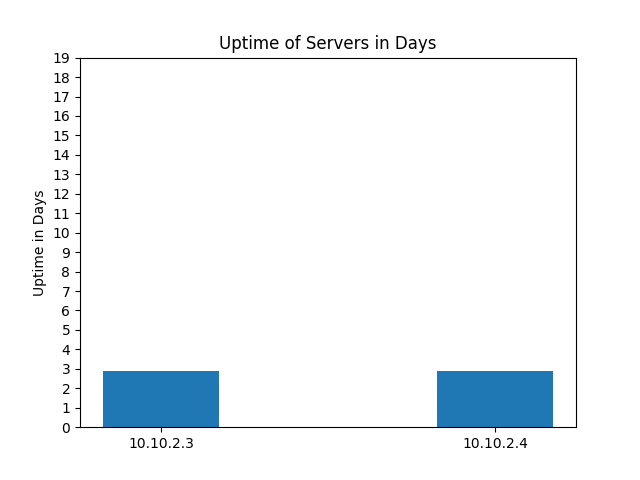
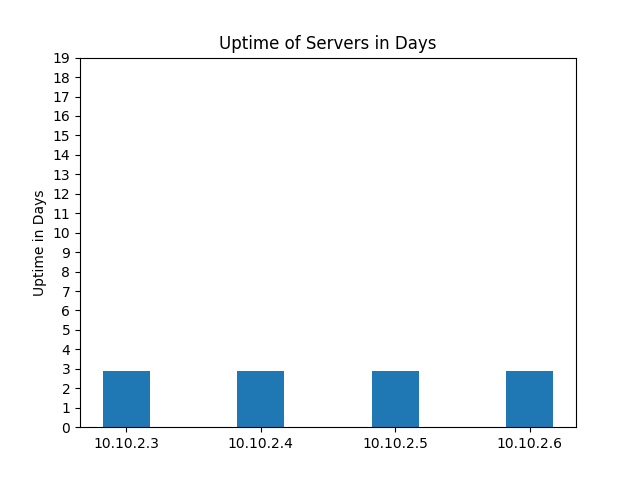
Updated dynamic selection

Changed region(s): [[0.5625, 0.75, 0.875, 0.9375], [0.125, 0.75, 0.4688, 0.9375]]

diff --git a/flaskapi/graphapp01.py b/flaskapi/graphapp01.py
@@ -51,7 +51,8 @@ def graphin():
     svruptime = tuple(svruptime)
 
     # graphin
-    N = 2 # total number of bars
+    N = len(creds)  
+    print(N)
     ind = np.arange(N)    # the x locations for the groups
     width = 0.35       # the width of the bars: can also be len(x) sequence
     p1 = plt.bar(ind, svruptime, width)
